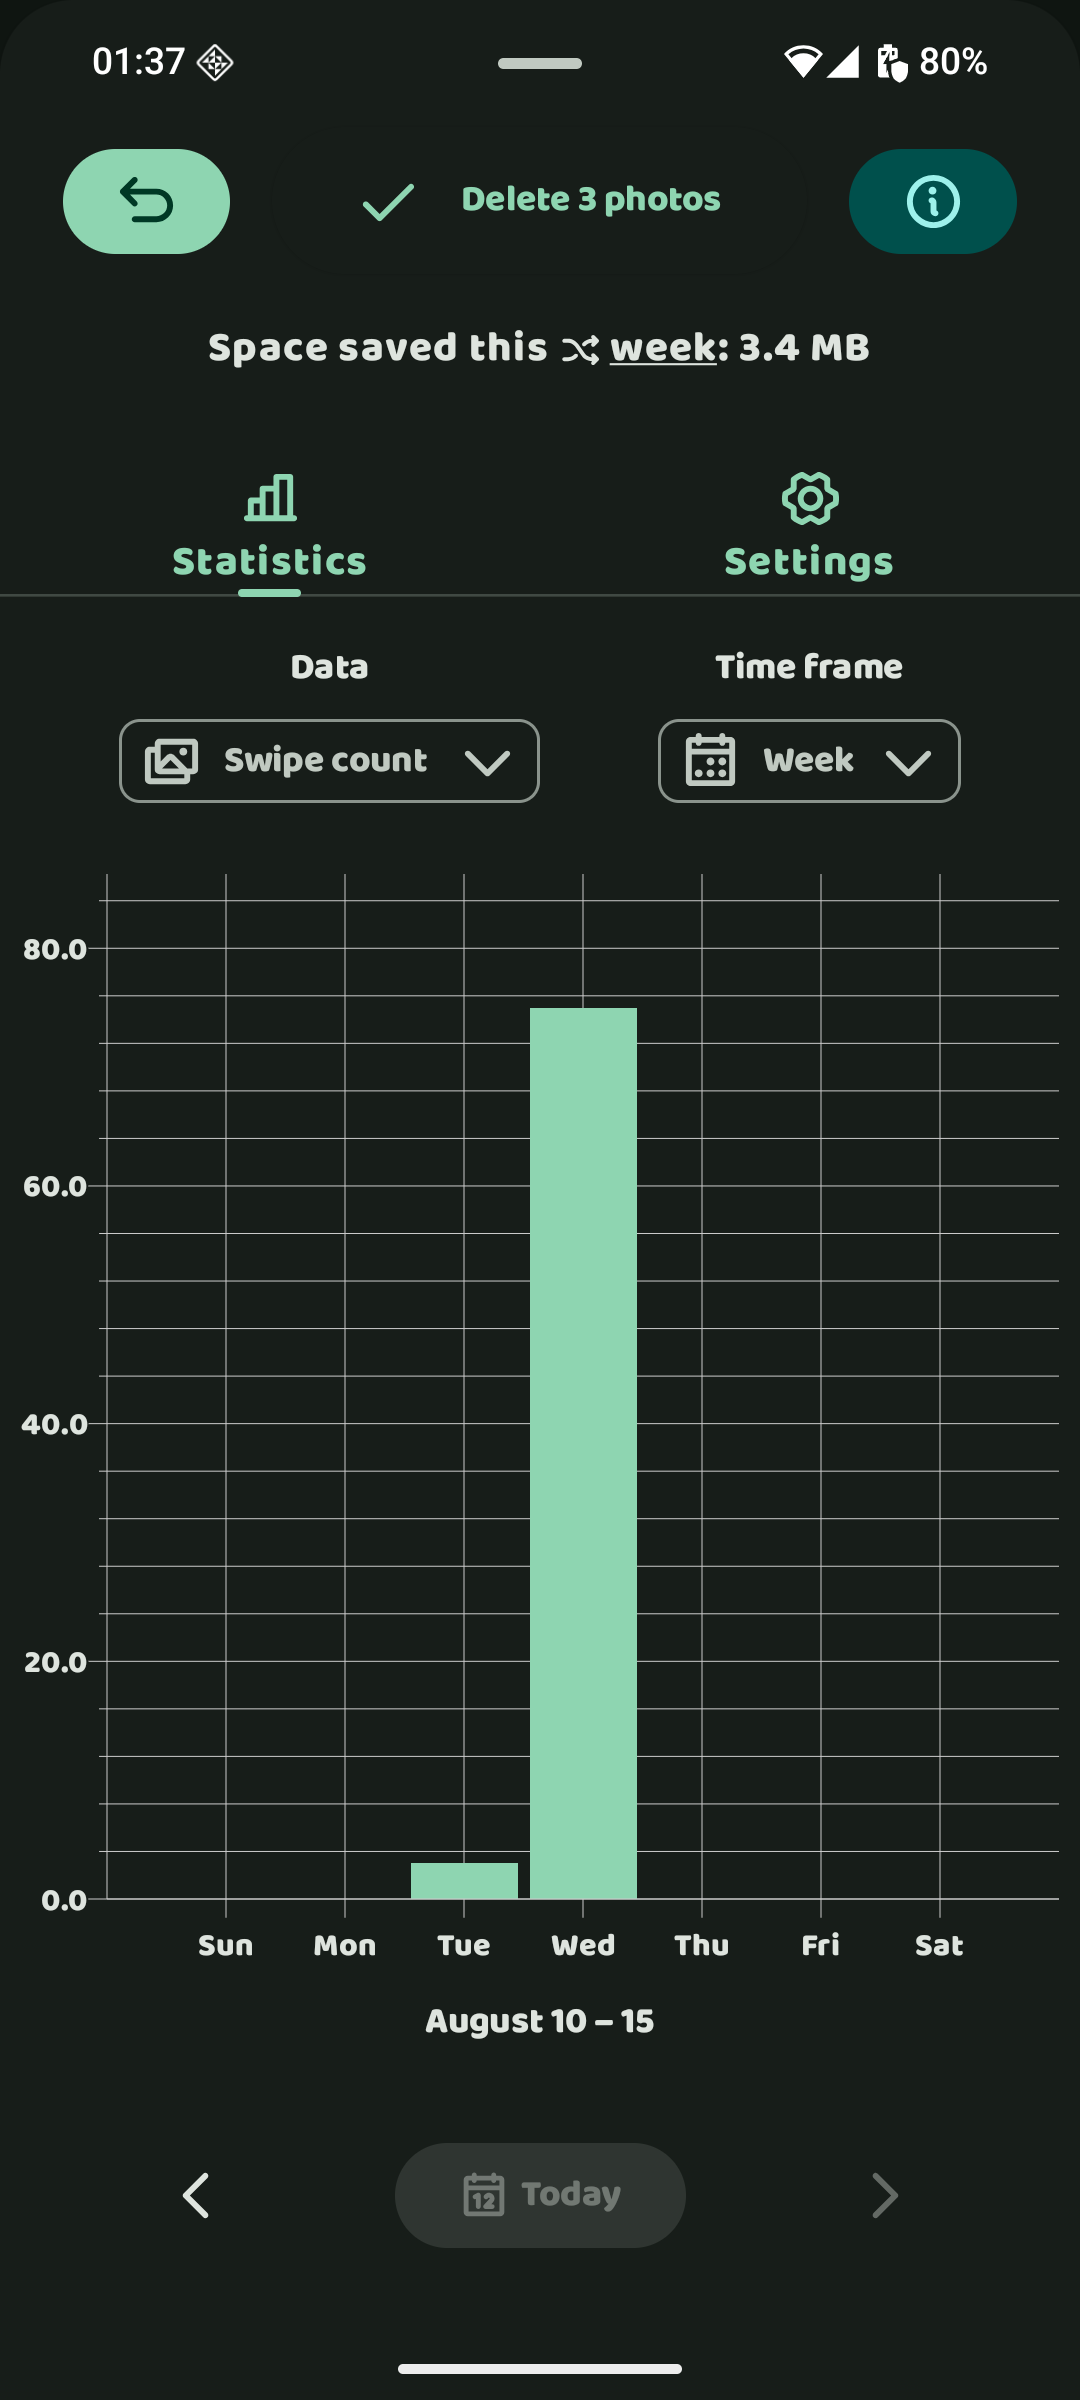
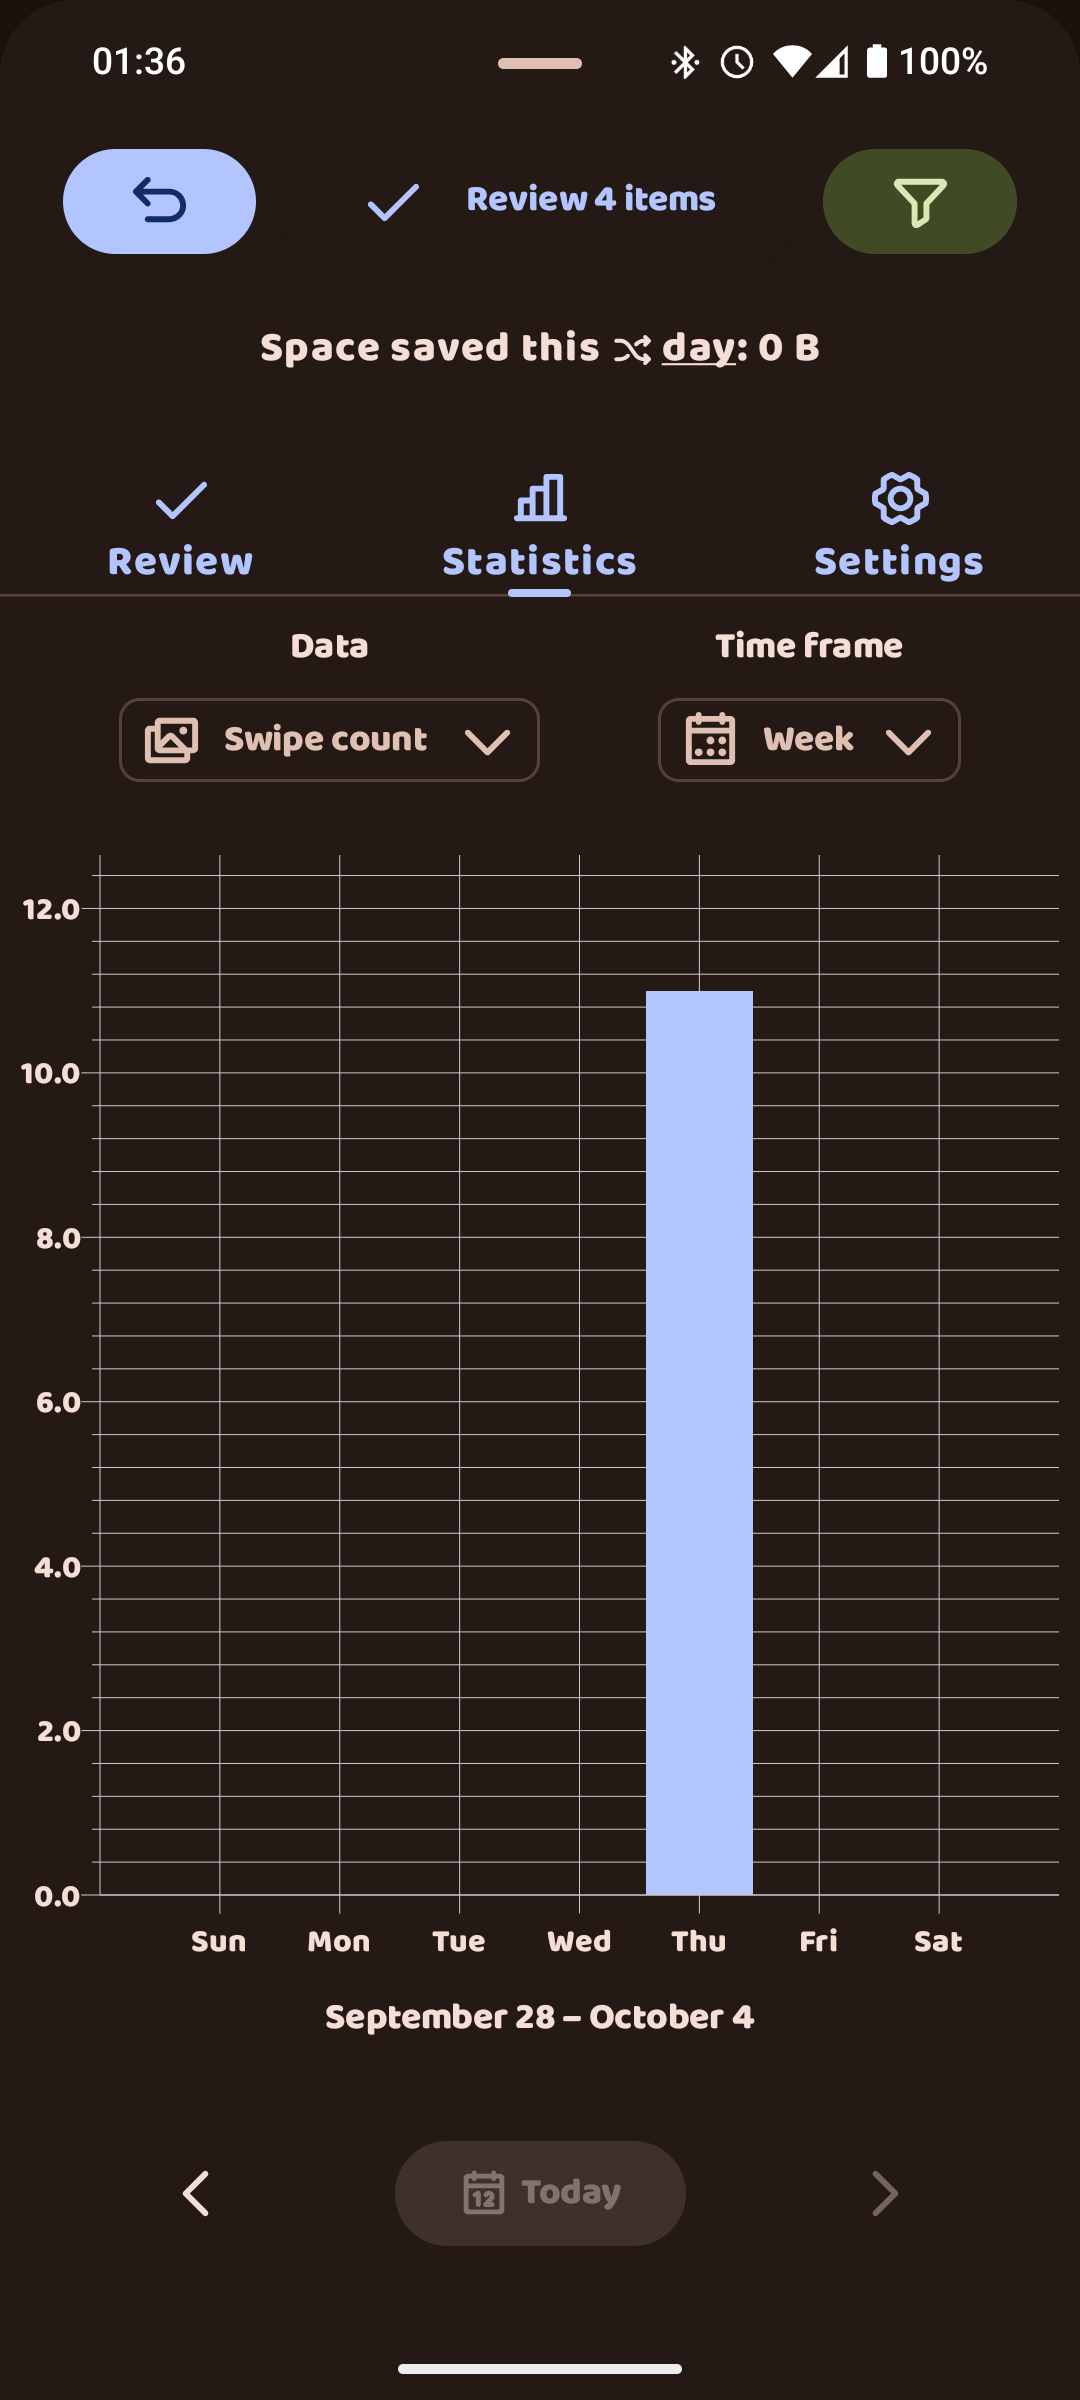
build: Bump version to 2025.10.1 Signed-off-by: loowiz <loowiz@envs.net>

diff --git a/README.md b/README.md
@@ -20,7 +20,7 @@ Hope you enjoy!
 
 ## Features
 
-> Features last updated 2025-08-13
+> Features last updated 2025-10-02
 
 - [X] Undo button
 - [X] Info drawer
@@ -31,17 +31,26 @@ Hope you enjoy!
 
 ## Screenshots
 
-> Screenshots as of 2025-08-13
+> Screenshots as of 2025-10-02
 
-<img src="fastlane/metadata/android/en-US/images/phoneScreenshots/info.png" alt="Home screen" width="200"/>
-<img src="fastlane/metadata/android/en-US/images/phoneScreenshots/stats.png" alt="Library screen" width="200"/>
-<img src="fastlane/metadata/android/en-US/images/phoneScreenshots/settings.png" alt="Library screen" width="200"/>
-<img src="fastlane/metadata/android/en-US/images/phoneScreenshots/review.png" alt="Library screen" width="200"/>
+
+| info drawer                                                                                                 | Filtering options                                                                                             | Review screen                                                                                                    | Statistics screen                                                                                                  | settings home page                                                                                                  | Behaviour settings                                                                                                                       | Appearance settings                                                                                                                        | Statistics settings                                                                                                                   |
+|-------------------------------------------------------------------------------------------------------------|---------------------------------------------------------------------------------------------------------------|------------------------------------------------------------------------------------------------------------------|--------------------------------------------------------------------------------------------------------------------|---------------------------------------------------------------------------------------------------------------------|------------------------------------------------------------------------------------------------------------------------------------------|--------------------------------------------------------------------------------------------------------------------------------------------|---------------------------------------------------------------------------------------------------------------------------------------|
+| <img src="fastlane/metadata/android/en-US/images/phoneScreenshots/info.png" alt="Home screen" width="200"/> | <img src="fastlane/metadata/android/en-US/images/phoneScreenshots/filter.png" alt="Home screen" width="200"/> | <img src="fastlane/metadata/android/en-US/images/phoneScreenshots/review.png" alt="Library screen" width="200"/> | <img src="fastlane/metadata/android/en-US/images/phoneScreenshots/stats.png" alt="Statistics screen" width="200"/> | <img src="fastlane/metadata/android/en-US/images/phoneScreenshots/settings.png" alt="Settings screen" width="200"/> | <img src="fastlane/metadata/android/en-US/images/phoneScreenshots/behaviourSettings.png" alt="Behaviour settings category" width="200"/> | <img src="fastlane/metadata/android/en-US/images/phoneScreenshots/appearanceSettings.png" alt="Appearance settings category" width="200"/> | <img src="fastlane/metadata/android/en-US/images/phoneScreenshots/statsSettings.png" alt="Statistics settings category" width="200"/> |
+|                                                                                                             |                                                                                                               |                                                                                                                  |                                                                                                                    |                                                                                                                     |                                                                                                                                          |                                                                                                                                            |                                                                                                                                       |
+|                                                                                                             |                                                                                                               |                                                                                                                  |                                                                                                                    |                                                                                                                     |                                                                                                                                          |                                                                                                                                            |                                                                                                                                       |
 
 ## Issues
 
-If you would like to report a bug or request a feature, you may do so via the issues section of this git page or via
-any contact method listed on [my website](https://loowiz.envs.net).
+If you would like to report a bug or request a feature, you may do so via:
+- the issues section of this git page
+- any contact method listed on [my website](https://loowiz.envs.net).
+
+## Thanks
+- Thanks to [Phosphor Icons](https://phosphoricons.com/) for the icons used in this project
+- Thanks to [EkType](https://ektype.in/) for the beautiful Baloo 2 font, which I have personally fallen in love with
+- Thanks to [Jetbrains](https://jetbrains.com) for making [Intellij IDEA](https://www.jetbrains.com/idea/), which was 
+used, along with the Android plugin, to make this app
 
 ## Legal
 
